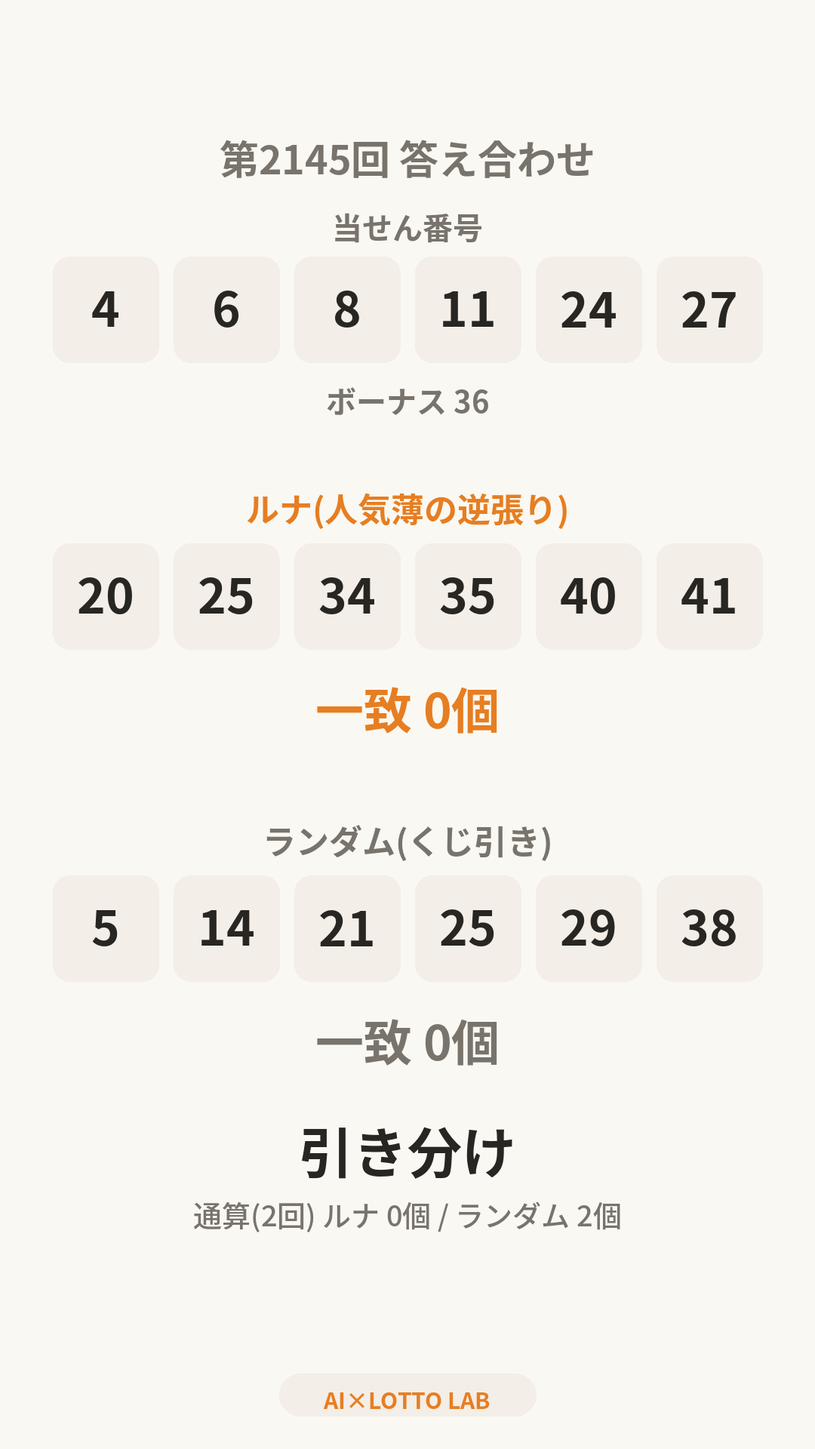
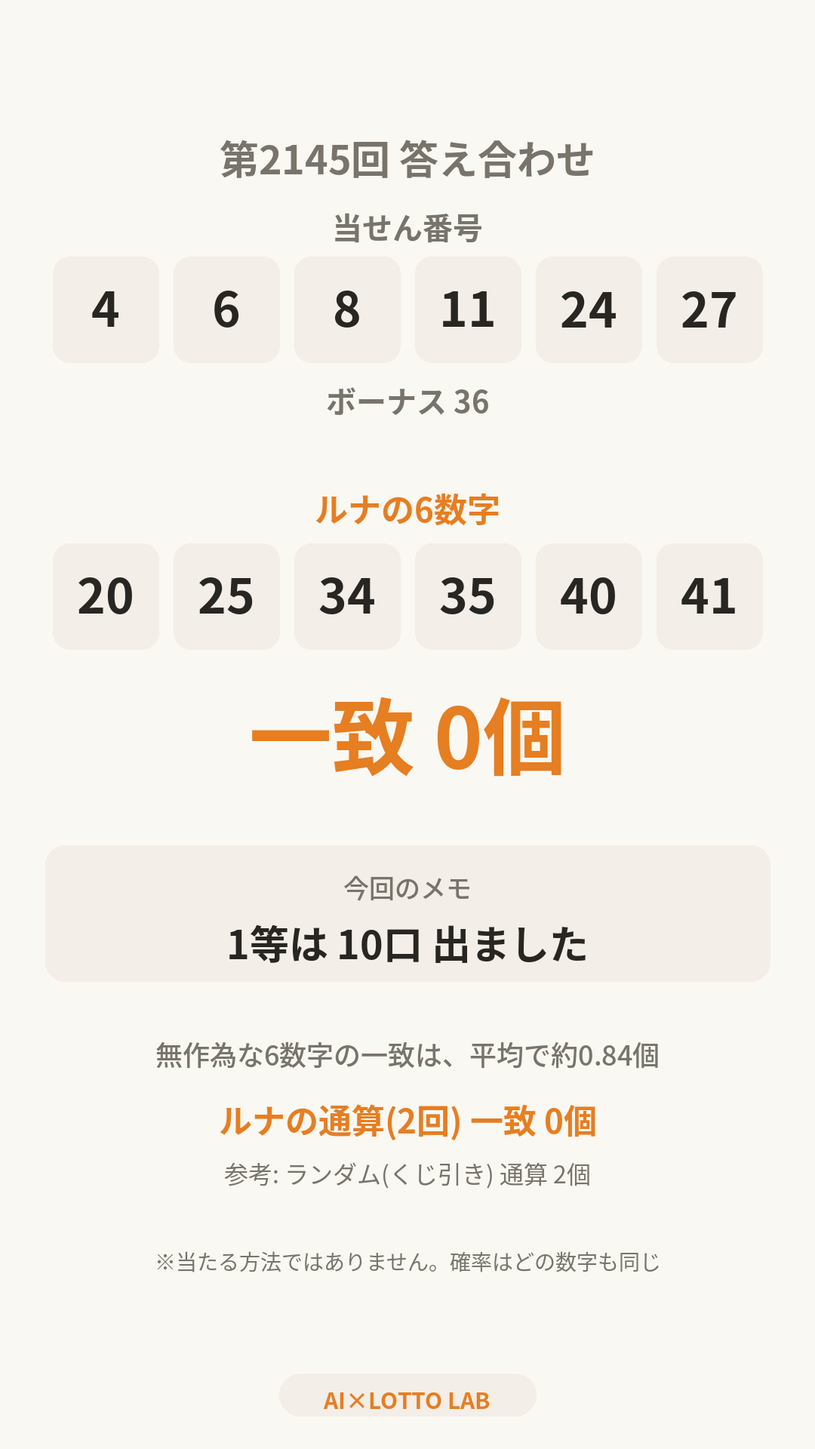
concept v3: growth mechanics, new answer card, pipeline for new video types

diff --git a/scripts/weekly.py b/scripts/weekly.py
@@ -74,13 +74,17 @@ win = set(R["nums"])
 ct(d, 170, "第%d回 答え合わせ" % D, F("Bold", 52), GREY)
 ct(d, 270, "当せん番号", F("Bold", 40), GREY); row(R["nums"], 340)
 ct(d, 500, "ボーナス %d" % R["bonus"], F("Bold", 40), GREY)
-ct(d, 640, "ルナ(人気薄の逆張り)", F("Bold", 44), OR); row(pk["luna"], 720, win)
-ct(d, 890, "一致 %d個" % hit(pk["luna"]), F("Bold", 64), OR)
-ct(d, 1080, "ランダム(くじ引き)", F("Bold", 44), GREY); row(pk["random"], 1160, win)
-ct(d, 1330, "一致 %d個" % hit(pk["random"]), F("Bold", 64), GREY)
+ct(d, 640, "ルナの6数字", F("Bold", 44), OR); row(pk["luna"], 720, win)
+ct(d, 890, "一致 %d個" % hit(pk["luna"]), F("Bold", 110), OR)
+c1 = R["counts"][0]
+fact = ("1等は %d口 出ました" % c1) if c1 > 0 else "1等は出ず、次回に持ち越し"
+d.rounded_rectangle([60, 1120, W-60, 1300], radius=26, fill=CARD)
+ct(d, 1150, "今回のメモ", F("Medium", 34), GREY); ct(d, 1210, fact, F("Bold", 52), DARK)
+ct(d, 1370, "無作為な6数字の一致は、平均で約0.84個", F("Medium", 36), GREY)
+ct(d, 1450, "ルナの通算(%d回) 一致 %d個" % (n, tl), F("Bold", 44), OR)
+ct(d, 1530, "参考: ランダム(くじ引き) 通算 %d個" % tr, F("Regular", 32), GREY)
 verdict = "ルナの勝ち" if hit(pk["luna"]) > hit(pk["random"]) else ("ランダムの勝ち" if hit(pk["luna"]) < hit(pk["random"]) else "引き分け")
-ct(d, 1470, verdict, F("Bold", 72), DARK)
-ct(d, 1580, "通算(%d回) ルナ %d個 / ランダム %d個" % (n, tl, tr), F("Medium", 38), GREY)
+ct(d, 1650, "※当たる方法ではありません。確率はどの数字も同じ", F("Regular", 28), GREY)
 d.rounded_rectangle([W/2-170, 1820, W/2+170, 1876], radius=28, fill=CARD); ct(d, 1832, "AI×LOTTO LAB", F("Bold", 30), OR)
 im.save(f"cards/answer_{D}.png")
 
@@ -115,6 +119,7 @@ json.dump({"answer_draw": D, "luna_hit": hit(pk["luna"]), "random_hit": hit(pk["
            "total": {"draws": n, "luna": tl, "random": tr}, "next": NEXT, "luna": nx["luna"], "random": nx["random"],
            "percentile": nx["percentile_luna"], "nums": R["nums"], "bonus": R["bonus"]},
           open("data/week_summary.json", "w"), ensure_ascii=False, indent=1)
+subprocess.run([sys.executable, "scripts/make_hook_cards.py", str(NEXT)], check=True)
 subprocess.run([sys.executable, "scripts/make_logic_card.py", str(NEXT)], check=True)
 subprocess.run([sys.executable, "scripts/make_explain_cards.py", str(NEXT)], check=True)
 subprocess.run([sys.executable, "scripts/build_history.py"], check=True)

diff --git a/scripts/validate.py b/scripts/validate.py
@@ -28,7 +28,7 @@ chk(r is not None, "戦績に第%d回がある" % D)
 if r and pD:
     chk(r["luna"] == pD["luna"] and r["random"] == pD["random"], "戦績の予想数字が、予想時に保存した数字と同じ")
     chk(r["nums"] == nums and r["bonus"] == bonus, "戦績の当せん数字が履歴と同じ")
-for f in (f"cards/answer_{D}.png", f"cards/pred_{N}.png"): chk(os.path.exists(f), f"{f} がある")
+for f in (f"cards/answer_{D}.png", f"cards/pred_{N}.png", f"cards/hook_{N}.png", f"cards/numbers_{N}.png"): chk(os.path.exists(f), f"{f} がある")
 for s in a.script:
     t = open(s).read()
     for label, ns in (("答え合わせ", nums), ("ルナ予想", pN["luna"] if pN else []), ("ランダム予想", pN["random"] if pN else [])):

diff --git a/PIPELINE.md b/PIPELINE.md
@@ -1,69 +1,55 @@
 # ルナ 毎週パイプライン(スケジュール実行用の手順書)
 
-TikTok @ai_loto_luna(Metricool ブランド 7390724「ai_loto_luna」、2026-10-13からルナ専用。旧ブランド 6989756 は開花亭BIS専用で、触らない)。抽せんは月曜・木曜の18:45。
-実行は毎週 火曜・金曜 07:07(JST)。
-【2本構成(2026-10-09 ユーザー確認)】1回の実行で動画を2本作る。
- A) 結果発表だけ(オフ・カーディガン・ギャル口調、約45秒): シーン1(冒頭は結果から)→答え合わせカード→締め「次の予想は<月曜|木曜>の抽せん前に出すよ」。今日10:00に予約。
- B) 予想だけ(オン・白ジャケット、約50秒): 冒頭「ルナの<リベンジ等>数字を公開します。第N回、<月曜|木曜>の予想です」→予想カード→CTA(前回の結果に一言触れる)。次の抽せん日(金曜実行なら月曜、火曜実行なら木曜)の18:00に予約。
- 以降の手順7・8の「1本」は、A・B それぞれに読み替える(Bの台本は手順7のシーン3〜5を使う)。
- 重複チェックは A(今日10:00)と B(次の抽せん日18:00)の両方を見る。どちらも無ければ作る。片方だけ有れば無い方だけ作る。
+TikTok @ai_loto_luna(Metricool ブランド 7390724「ai_loto_luna」、ルナ専用。旧ブランド 6989756 は開花亭BIS専用で、触らない)。抽せんは月曜・木曜の18:45。
+実行は毎週 火曜・金曜 07:07(JST)。必ず先に CONCEPT.md を読む(v3: 2026-10-14 改訂)。
 
-## 企画の軸(2026-10-13 再設計。詳細は CONCEPT.md を必ず読む)
-- 主役は「なぜその6数字か」のロジック。ギャルの見た目・口調 × ガチ理論のギャップ。ランダムは比較のものさしに降格。
-- 予想動画(B)は CONCEPT.md の型に従う: 冒頭2秒で結論 → 人気度マップ(cards/logic_<N>.png)→ なぜ人気で選ぶか → 6数字(予想カード)と選び方・人気度の指数 → 締め。75〜90秒、台本は短く(全体で約400〜450字が目安)。
-- 結果動画(A)は「理論の通信簿」(人気数字に寄ったか、当せん者数・1等口数と照らす)。**直前に予想動画を公開した回だけ**作る。予想動画を出していない回の結果動画は作らない(今は第2145回がこれに該当し、作らない)。
-- ユーザー指示: 自虐(頭が悪そう等)は言わない。当選金額・取り分・山分けの話はしない(「被り度」「被りにくさ」で説明)。理論は図解カード(flow / evidence / logic / pred)で見せる。
-- 動画の長さは 60〜90秒。超えたら台本を詰めて作り直す。
+## 2本構成(1回の実行で動画を2本)
+- A) 結果発表(オフ・カーディガン・ギャル口調、45〜60秒): 今日 19:30 に予約(企画書の火・金19〜21時を4週間テスト)。
+- B) 予想(オン・白ジャケット、75〜90秒): 次の抽せん日(金曜実行なら月曜、火曜実行なら木曜)の 12:00 に予約(企画書の11:30〜13:00を4週間テスト)。
+- 重複チェックは A(今日19:30)と B(次の抽せん日12:00)を別々に見る。無い方だけ作る。
+- 結果動画(A)は「直前に予想動画を公開した回」だけ作る。予想を出していない回は作らない(第2145回は対象外)。
 
 ## 守ること(破らない)
-- 当せん確率が上がる、とは絶対に言わない。「当たったときの取り分」と「ルナ vs ランダムの公開検証」だけ。
-- 結果を確認できない/2か所で食い違う/動画が失敗したときは、投稿せずに止めて、ユーザーに通知(PushNotification があれば使い、最終メッセージにも書く)。間違った結果の動画を出すより止める。
-- すでに同じ回の投稿が予約・公開されている場合は、何もしない(二重投稿禁止)。
-- 公開前にユーザーが確認できない前提。迷ったら止める。
+- 当せん確率が上がる、とは絶対に言わない。「当てる方法ではない」「確率はどの6数字でも同じ」を毎回入れる。
+- 自虐(頭が悪そう等)・当選金額・取り分・山分けの話はしない。「被りにくさ」を柱にしない(冒頭の小ネタ程度)。
+- 結果を確認できない/2か所で食い違う/動画が失敗したときは、投稿せずに止めて、ユーザーに通知。間違った結果の動画を出すより止める。
+- 同じ回の投稿が予約・公開済みなら何もしない(二重投稿禁止)。迷ったら止める。
+- 動画の長さは 60〜90秒(予想は最大90秒)。超えたら台本を詰めて作り直す(1回だけ)。
+- 数字は data/picks・data/history.json・data/week_summary.json のものだけ使う(手書き禁止)。
 
 ## 手順
 0. リポジトリ kijimatoon3-ai/luna-assets が無ければ add_repo(access=push)→ git clone。作業はリポジトリのルート。
-1. 直前に終わった回 D を決める。data/loto6_all.xlsx の最終行の次、または最新の抽せん日(月・木)。次の回 N = D+1。
-   N の抽せん日: D が月曜の回なら木曜、D が木曜の回なら月曜。
-2. 重複チェック: data/picks/<N>.json が既にあり、かつ Metricool(getScheduledPosts, brandId 7390724, Asia/Tokyo)に今日10:00以降の TikTok 予約がある → 終了(何もしない)。
-3. 結果の取得: WebFetch で次を順に試す(抽せん翌朝は更新済みのはず)。本数字6個とボーナスは**2か所以上で一致**を確認。
+1. 直前に終わった回 D を決める(data/loto6_all.xlsx の最終行の次、または最新の抽せん日(月・木))。次の回 N = D+1。N の抽せん日: D が月曜の回なら木曜、D が木曜の回なら月曜。
+2. 重複チェック(上記)。両方ある → 終了。
+3. 結果の取得: WebFetch で次を順に試す。本数字6個とボーナスは**2か所以上で一致**を確認。
    - https://tokaikensyo.com/campaignwinning/loto6/
    - https://www.mk-mode.com/rails/loto/loto6
    - https://loto-life.net/csv/download(最新回数の確認用)
    - https://takarakuji-loto.jp/tousenp.html
-   - みずほ銀行のページは JS 描画で空になるので使わない。
-   口数(1〜5等)と賞金は表がある1か所から取る。取れない場合は止める。
-4. data/result.json を作る:
-   {"draw":D,"date":"YYYY-MM-DD","nums":[6個昇順],"bonus":b,"counts":[1〜5等口数],"prizes":[1〜5等賞金],"carry":キャリーオーバー}
+   - みずほ銀行のページは JS 描画で空になるので使わない。口数(1〜5等)と賞金は表がある1か所から取る。取れない場合は止める。
+4. data/result.json を作る: {"draw":D,"date":"YYYY-MM-DD","nums":[6個昇順],"bonus":b,"counts":[1〜5等口数],"prizes":[1〜5等賞金],"carry":キャリーオーバー}
 5. python3 scripts/weekly.py --result data/result.json --next N --next-date "M/D 曜"
-   → cards/answer_<D>.png、cards/pred_<N>.png、data/picks/<N>.json、data/scoreboard.json、data/week_summary.json ができる。
+   → cards/answer_<D>.png(答え合わせ)、cards/hook_<N>.png(冒頭フック: 1等が出た回の割合)、cards/numbers_<N>.png(ルナの6数字)、cards/pred_<N>.png(旧・比較カード。使わない)、data/picks/<N>.json、data/scoreboard.json、data/week_summary.json。
 5b. 整合性チェック(必須): python3 scripts/validate.py --draw D --next N。NG なら動画を作らず止めて通知。
-   通れば、data/history.json に「予想(数字・根拠)→結果→一致数→通算」が回ごとに1本でつながっている。
-   予想も結果も必ずここ(data/picks/<回>.json と data/week_summary.json)の数字だけを使う。台本に数字を手で書き写さない(コピーして使う)。
 6. git add -A; git commit; git push(カードを raw.githubusercontent.com で公開するため)。
    カードURL: https://raw.githubusercontent.com/kijimatoon3-ai/luna-assets/main/cards/<ファイル名>
 7. 動画を HeyGen create_video_from_studio で作る(aspectRatio "9:16"、全シーン voice_id 9U1EOQDnE3aBBuViHEYj、voice_settings.speed 1.1)。
-   台本は data/week_summary.json の数値で作る。ギャル部分は砕けた口調、予想部分はフォーマル。「昨日の第D回」と言う(実行は抽せんの翌朝)。
-   - シーン1 avatar_video(オフ): avatar_id a194463ace6340de863dc0ece760ff61、「やっほー、ルナだよ。昨日の第D回の結果、見た?」+ルナの結果への一言(外れ/当たり/ランダムに勝った/負けた)。
-   - シーン2 image: cards/answer_<D>.png に、ナレーション(当せん番号、ルナ一致○個、ランダム一致○個、勝敗、通算)。
-   - 予想動画(B)は、ルナの6数字を「1つ目、20。2つ目、25。…」と1個ずつ紹介してから、最後に6数字をまとめて読む。ランダムは続けてまとめて読むだけでよい。
-   - 結果動画(A)には、予想の根拠と実際の結果の照合を一言入れる(例: 「人気薄を選んだけど、当たりは人気の数字に寄ってた」)。当たった場合も外れた場合も、「当選確率は上がらない」前提を崩さない。
-   - シーン3 avatar_video(オン): avatar_id f25ca49937d1451b870b6dcc4408775b、「ここからは、第N回の予想です。ルナは、人気のない数字を選びます。」
-   - シーン4 image: cards/pred_<N>.png に、ナレーション(ルナの6数字、ランダムの6数字、「どっちが勝つか勝負です」)。
-   - シーン5 avatar_video(オン): 「当たる保証はありません。遊びとして見てください。ルナとランダム、どっちが勝つと思いますか。コメントで教えてください。」
-   【冒頭2秒のルール(2026-10-08 決定)】動画の最初の2秒(約10文字以内)で、結果か結論を言って止める。あいさつや前置きは後ろに回す。
-   - シーン1の1文目を、結果から入る短い一言にする。例: 「ルナ、ランダムに勝った!」「ルナ、また外した…」「引き分け!」「一致、まさかの○個!」。
-   - その直後に「やっほー、ルナだよ」と続ける(名前の出だしは固定)。
-   - 表紙(カバー)は、シーン1の笑顔のカットを使う。
-   - 冒頭の一言は毎回同じ言い回しにしない。直近の2本と重ならないようにする。
-   全体 60〜80秒に収める。ナレーションは短く、数字は区切って読む(例「に、にじゅういち、…」ではなく「2、21、30、34、35、43」と書く)。
-   get_video で completed まで待つ(目安4分、30秒ごと)。失敗したら1回だけ作り直し、それでも失敗なら止めて通知。
-8. Metricool createScheduledPost(blogId 7390724): 今日 10:00 JST、providers tiktok、
-   tiktokData {isAigc:true, privacyOption:PUBLIC_TO_EVERYONE, title:"第N回ロト6 ルナの予想と答え合わせ"}、media は video_url。
-   キャプション: 【第D回 答え合わせ+第N回 AI予想】の見出し、ルナ/ランダムの一致数、「当たる保証なし・抽せんは毎回独立・エンタメ」、ハッシュタグ(#ロト6 #ロト6予想 #AI予想 #AIロト研究員ルナ #宝くじ)。
-   firstCommentText: 「ルナとランダム、どっちが多く当たると思う?コメントで教えて!」
+   【予想動画 B(白ジャケット avatar f25ca49937d1451b870b6dcc4408775b)】基準は第2146回の動画(HeyGen 3937f22da7953a98801a10a9e64bc7f6、87秒)。構成:
+   1) avatar: 冒頭2秒で意外な事実(例「ロト6、約7割の回で、日本のだれかが1等を当ててるって知ってた?」)。毎回同じ言い回しにしない。
+   2) image hook_<N>.png: 全<N-1>回中の1等が出た回数・割合(カードの数字をそのまま読む)、自分が当てる確率は 610万分の1・どの6数字でも同じ。
+   3) avatar: 「当てる方法じゃなく、データを分析して予想して、結果を毎回公開して検証する」→「第N回の6数字はこちら」。
+   4) image numbers_<N>.png: 「1つ目、○。2つ目、○…」と1個ずつ、最後にまとめて読む。「全<N-1>回のデータを分析して選びました」。
+   5) avatar: 「当たる保証はありません。遊びとして見てね。あなたの6数字もコメントで教えて。答え合わせは<金曜|火曜>の朝に出すよ。フォローして待っててね」。
+   【結果動画 A(カーディガン avatar a194463ace6340de863dc0ece760ff61)】45〜60秒:
+   1) avatar: 冒頭2秒で結果(「一致、0個…!」「ルナ、2個一致!」など、毎回変える)。続けて「やっほー、ルナだよ。第D回の答え合わせ」。
+   2) image answer_<D>.png: 当せん番号、ルナの一致数、今回のメモ(1等の口数)、「無作為な6数字の一致は平均で約0.84個」、ルナの通算。ランダムは参考として一言だけ。
+   3) avatar: 学びを1つ(例:「外れても確率は同じ。1等は○口出たよ」)、次の予想の日時を予告、コメント誘導(「あなたの一致数も教えて」)。
+   get_video で completed まで待つ(目安3〜4分、30秒ごと)。失敗したら1回だけ作り直し、それでも失敗なら止めて通知。
+8. Metricool createScheduledPost(blogId 7390724、providers tiktok、tiktokData {isAigc:true, privacyOption:PUBLIC_TO_EVERYONE, title}、media は video_url)。
+   - B(予想): 次の抽せん日 12:00。キャプション冒頭は冒頭の事実と610万分の1、続けて【第N回 AI予想】ルナの6数字、注意書き(当たる保証なし・確率はどの6数字も同じ・抽せんは毎回独立・エンタメ)、ハッシュタグ(#ロト6 #ロト6予想 #AI予想 #AIロト研究員ルナ #宝くじ)。firstCommentText「あなたの6数字もコメントで教えてね!答え合わせは○曜の朝に出すよ」。
+   - A(結果): 今日 19:30。【第D回 答え合わせ】一致数と1等の口数、注意書き、同じハッシュタグ。firstCommentText「あなたの一致数も教えて!次の予想は○曜のお昼に出すよ」。
 9. Projects ツールの claude/luna-method-v1.md の「戦績」を data/scoreboard.json の通算に更新する。
-10. 最後に、何を作って何時に予約したか、ルナ vs ランダムの通算を一行でまとめて報告。
+10. 最後に、何を作って何時に予約したか、ルナの通算一致数を一行でまとめて報告。
 
 ## 補足
 - 2026-10-13にルナ専用ブランドに分離し、有料プランに変更済み。週4本(結果発表2+予想2)で運用する。開花亭BISの投稿(旧ブランド 6989756)は一切触らない。

diff --git a/CONCEPT.md b/CONCEPT.md
@@ -1,48 +1,34 @@
-# ルナ企画 v2(2026-10-13 再設計)
+# ルナ企画 v3(2026-10-14 改訂)
 
-## 一言
-「頭が悪そうに見えるギャルが、2145回ぶんのデータで本気のロジックを組む」。そのギャップと、理論が本物かを毎回公開検証する連続ドラマ。
+## 目的
+SNS収益化(TikTok Creator Rewards 等)。動画の中身より先に「見る人が増える・フォローが増える」仕掛けを企画に入れる。
+ロト6を当てることは目的ではない(当てる方法は存在しない)。番組として続けて見たくなること、コメントしたくなること、戻ってきたくなること。
 
-## 旧企画の問題(ユーザー指摘)
-- 数字を選んで伝えるだけで、選ぶ背景が語られていない。
-- いつの間にか「ルナ(逆張り) vs ランダム」だけの勝負になり、ロジックが見えない=面白くない。
+## 変更点(v2→v3)
+- 「被りにくさ」を柱にするのをやめた(当たらないと意味がなく、見る人の得にならない。確率の話でもない)。冒頭の小ネタ止まり。
+- 理論の解説を長くしない。1本1論点。技術の話は週1の「研究編」に分離。
+- ランダムとの勝負を主役にしない。参考として一言だけ。
 
-## ユーザー追加指示(2026-10-13 夜)
-- 「頭が悪そう」などの自虐は言わない。ギャルが、構築されたロジックをそのまま話すだけ。
-- 当選金額・取り分・山分けの話はしない。選ぶ基準は「みんなと被りにくいこと」(被り度)。当せん確率は変わらないことだけ添える。
-- 理論は言葉だけでは伝わらない。図で見せる: 流れ(cards/flow_<N>.png)、検証グラフ(cards/evidence_<N>.png)、被り度マップ(cards/logic_<N>.png)。
+## 3つの仕掛け
+1. 見る理由(再生・維持): 冒頭2秒に意外な事実。例「約7割の回で、日本のだれかが1等を当てている(全2145回中1,533回=71%)」→「でも自分が当てる確率は610万分の1」。数字の公開は後半に置く。
+   - 冒頭の候補: 1等が出た回の割合 / 誕生日の数字(1〜31)に人気が寄る / 1等が出ずに持ち越した回の話。毎回変える。
+2. 参加する理由(コメント・シェア): 毎回「あなたの6数字もコメントで教えて」。結果動画は「あなたの一致数も教えて」。
+   - 将来案: 「被り度診断」など、コメントの6数字へルナが返事する企画(返信動画)。自動化は未実装。実装まで約束しない。
+3. 戻ってくる理由(フォロー): 毎回「答え合わせは○曜の朝」を予告。通算の一致数を結果動画のカードで積み上げる。シリーズ名・表紙・口調を固定。
 
-## 新しい軸
-1. 主役はロジック。数字は“結論”で、見せ場は「なぜその6個か」。
-2. キャラのギャップ: 見た目と口調はギャル、中身はガチ(2145回の当せん者数、回帰、約609万通りの全採点)。難しい話をギャル語でさらっと言う。
-3. ランダムは「比較のものさし」に降格する。主役は「ルナ理論 vs 現実」。
-4. 毎回ウソをつかない。当せん確率が上がるとは言わない。言うのは「当たったときの取り分」だけ。バックテストで「当たりやすさはランダムと同じ」と確認済みであることも、隠さず見せる(誠実さ=信頼)。
-
-## 理論(ルナ式 v1)の中身 — 台本の素材
-- データ: 全回の当せん数字と、3〜5等の当せん者数(売上の増減は除く)。
-- 発見: 当せん者が多い回は、みんなが選びがちな数字が出た回。→数字ごとの「人気度」が推定できる(検証データで相関 約0.69)。
-- 選び方: 全 6,096,454 通りを人気度で採点。人気が低い組ほど選ばれやすいくじ引きで1組を決める(上位固定にしないので毎回変わる)。
-- 指標: 「被り度の指数」= 他の当せん者と被りやすさの目安(平均=1.0、低いほど被りにくい)。ルナ vs ランダムを数字で比べる。
-- 限界: 当せん確率は変わらない。バックテストで全手法がランダムと同等。
+## キャラ
+- ギャル口調でデータの話をさらっと言う。自虐はしない。予想=白ジャケット(オン)、結果=カーディガン(オフ)。
+- 毎回のお約束: 「当てる方法じゃない・確率はどの6数字も同じ・抽せんは毎回独立・エンタメ」。
 
 ## 動画の型
-### 予想動画(白ジャケット・オン、約75〜90秒) — 抽せんの前に出す
-1. 冒頭2秒: 結論から(「人気ナシの6数字、出すよ!」)。
-2. 図解を順に見せる。被り度マップでは被りやすいベスト5と被りにくいベスト5。
-3. 図解: 流れ(4ステップ)→ 検証グラフ(相関)→ 被り度マップ。
-4. ルナの6数字(予想カード)と、選び方(全組合せを採点→くじ引き)。人気の低さの順位。人気度の指数(ルナ vs ランダム)。
-5. 締め: 保証なし、毎回検証、答え合わせの日時、コメント誘導。
-- 口調: ギャル口調でロジックを淡々と構築して話す。自虐・ギャップの自己言及はしない。
+- 予想(75〜90秒、抽せん日の12:00。企画書の11:30〜13:00): フック → hook カード → 方針(分析して予想、結果を毎回公開) → numbers カード(6数字を1つずつ) → 保証なし・コメント誘導・答え合わせ予告。
+- 結果(45〜60秒、火・金19:30。企画書の19〜21時): 冒頭に結果 → answer カード(一致数、1等の口数、通算) → 学び1つ・次の予告・コメント誘導。**予想動画を出した回だけ作る。**
 
-### 結果動画(カーディガン・オフ、約45〜60秒) — 抽せん後(翌朝)に出す
-- 対象は「直前に公開した予想」がある回だけ。予想動画を出していない回の結果動画は作らない。
-- 見せ所は「理論の通信簿」: 一致数と、実際の当せん数字の被り度(被りやすい数字に寄ったか)、当せん者の数を、予想時の理論と照らす。金額は話さない。
-- 一致数の通算(ルナ vs ランダム)と、人気度の指数の通算も更新。外れても理由を語る。
-
-## シリーズの“続き物”要素
-- 毎回「今回の学び」を1つ入れる(新しい回で人気ランクが動いたか、など)。
-- 回の頭に前回の結論を1行(「前回は引き分け。でも人気数字が出たから…」)。
+## 計測(最初の4週間は仮説の比較実験)
+動画ごとに記録: 冒頭の言い回し、投稿時刻、3秒維持率、平均視聴時間、完了率、コメント数、フォロー数。Metricool/TikTok Studio から取得。
+4週間は勝ち負けを語らない(週2回の一致数は偶然の範囲)。
 
 ## 運用ルール
-- 予想動画を出していない回の結果動画は作らない(2026-10-13ユーザー指示)。
-- 数字は data/picks/<回>.json と data/history.json のものだけを使う(手書き禁止)。
+- 数字は data/picks/<回>.json と data/history.json のものだけ使う(手書き禁止)。
+- 予想動画を出していない回の結果動画は作らない。
+- 金額・取り分・山分けの話はしない。自虐はしない。
